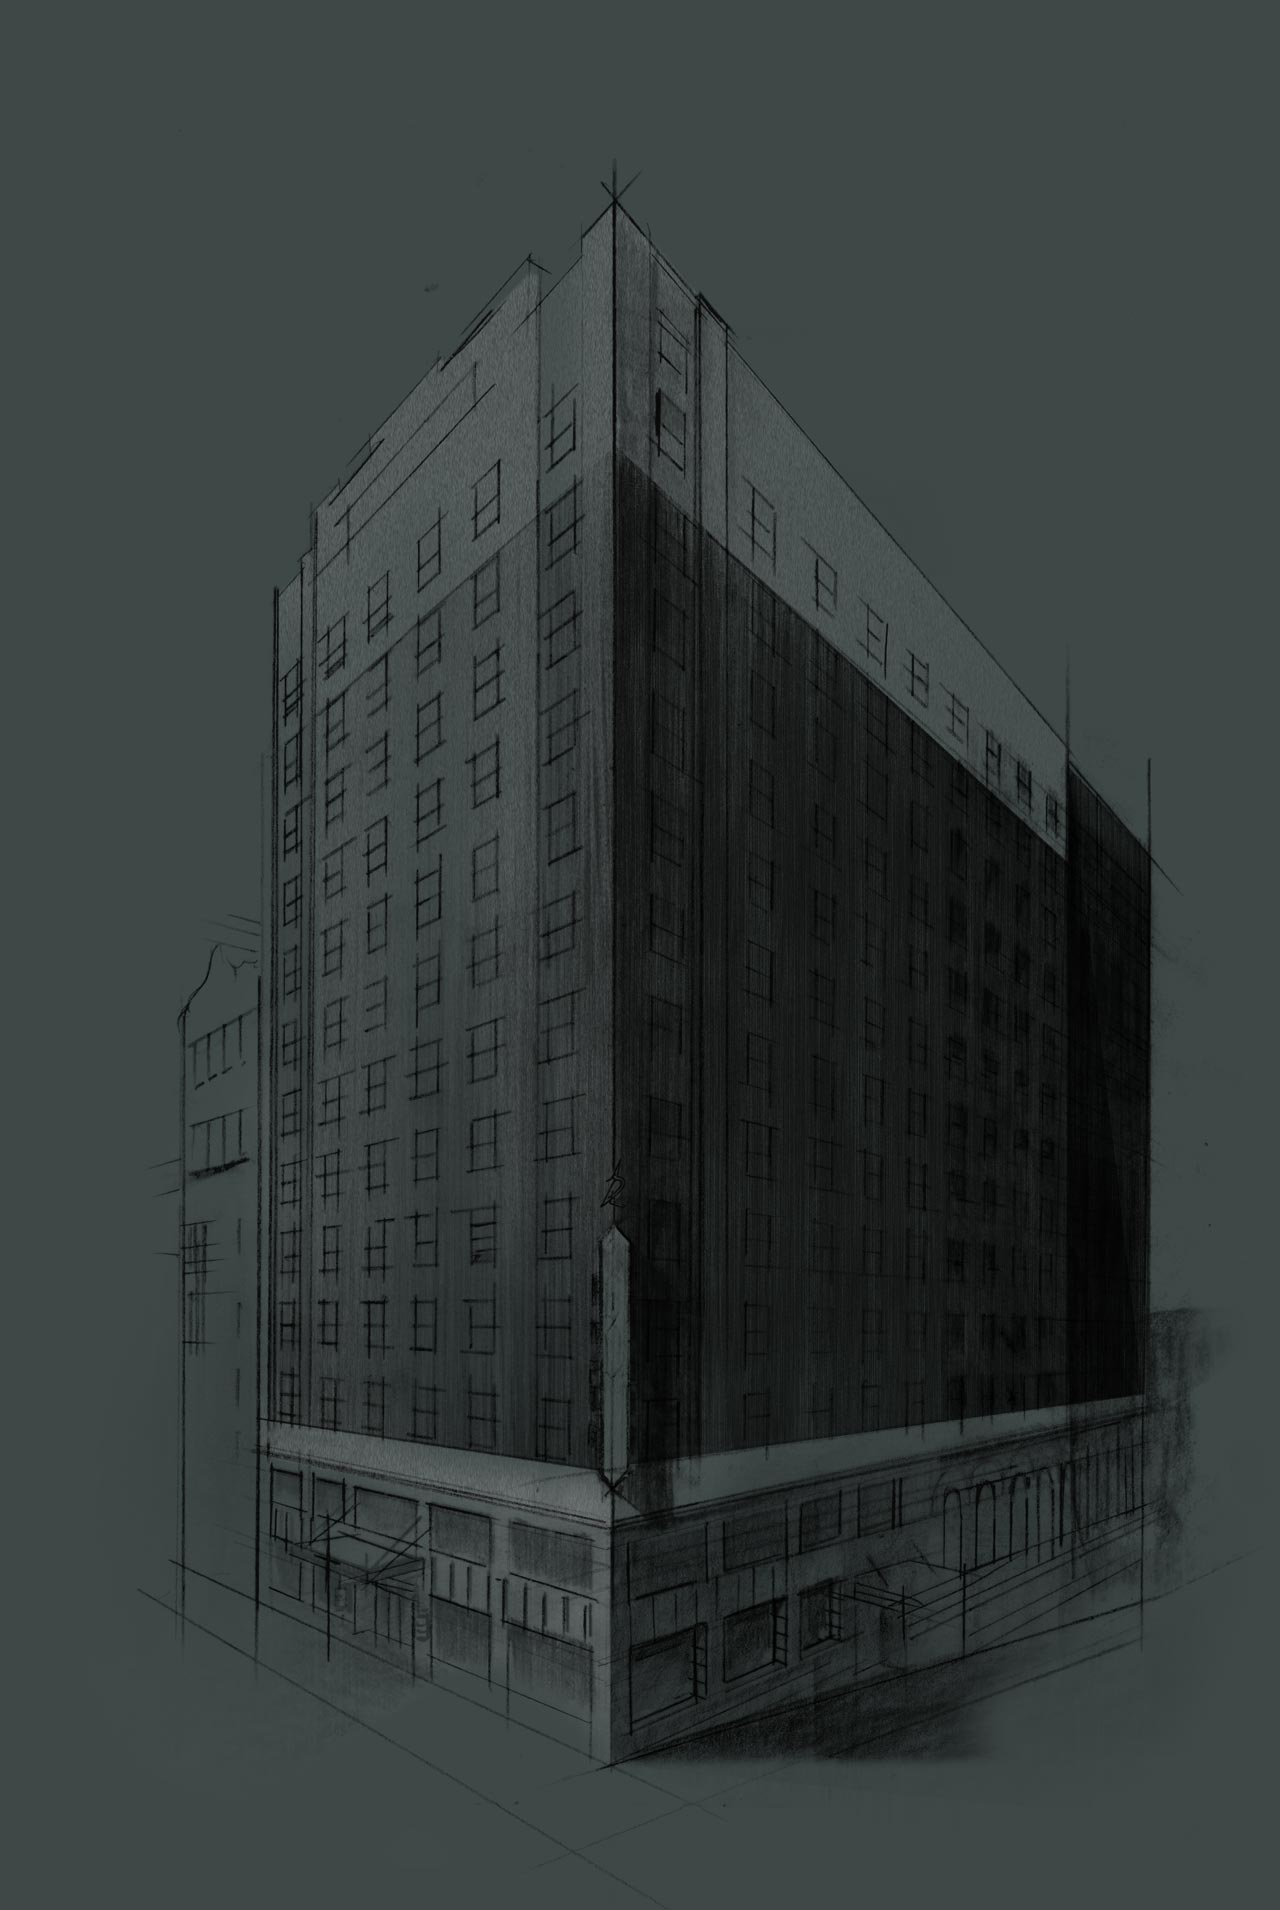
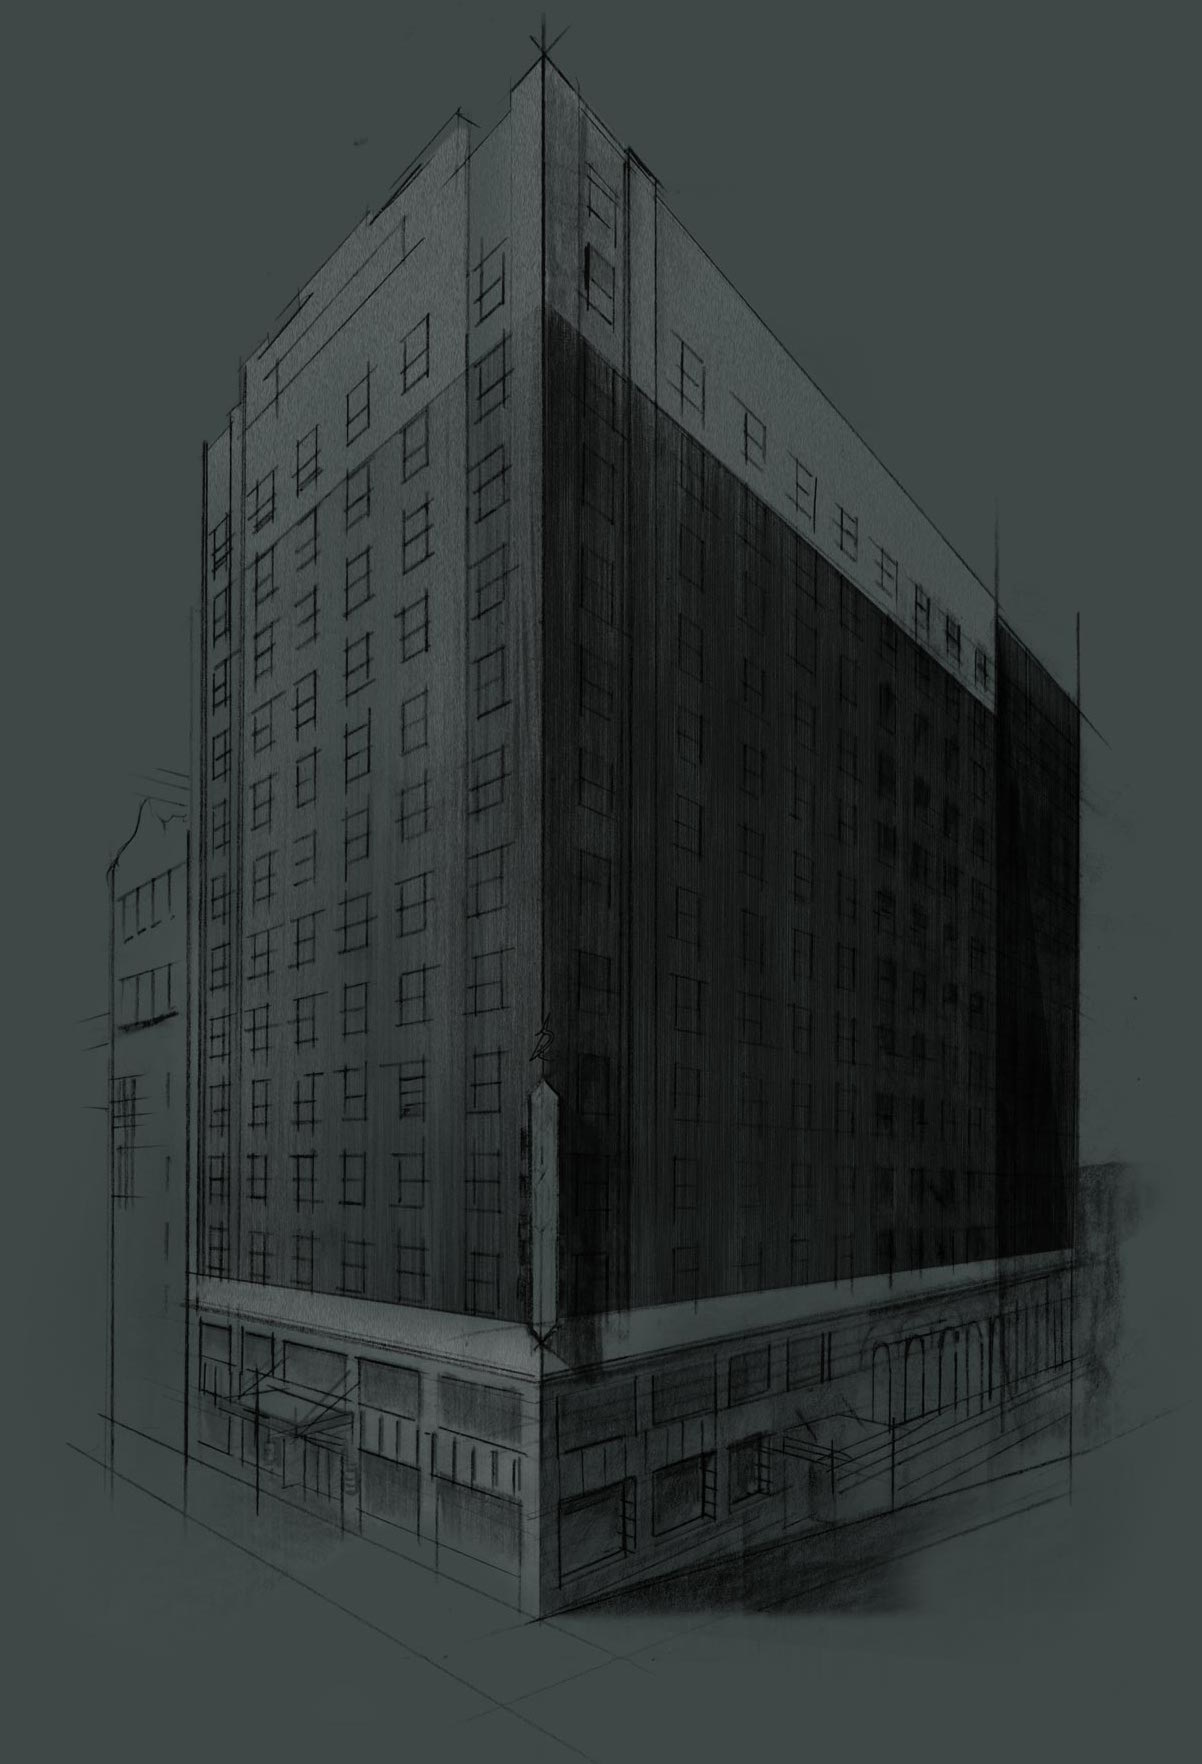
Styled all the way down to A Storied Past section.

diff --git a/index.html b/index.html
@@ -67,7 +67,7 @@
 
   	<!-- MORE THIS WAY ROW -->
   	<div class="row center-align btm-mrg" id="moreThisWayRow">
-      <h3>THERE'S MORE THIS WAY</h3>
+      <h3 class="top-mrg">THERE'S MORE THIS WAY</h3>
     </div>
 
   	<!-- BIG LINE ROW -->
@@ -115,10 +115,10 @@
       </div>
     </div>
 
-    <!-- ARROW ROW -->
-    <div class="row center-align" id="arrowRow">
+    <!-- ARROW ROW 2-->
+    <div class="row center-align" id="arrowRow2">
       <div class="col-md-12">
-        <div class="row">
+        <div class="row first-line">
           <img src="images/noelle-hotel-nashville-tn_ribbon.png" class="centerLine">
         </div>
         <div class="row">
@@ -127,44 +127,65 @@
       </div>
     </div>
 
-
   	<!-- LETS KEEP THIS GOING ROW -->
-  	<div class="row center-align" id="letsKeepThisGoingRow">
-      <h3>LET'S KEEP THIS GOING</h3>
+  	<div class="row center-align btm-mrg" id="letsKeepThisGoingRow">
+      <h3 class="top-mrg">LET'S KEEP THIS GOING</h3>
+    </div>
+
+    <!-- BIG LINE ROW 2 -->
+    <div class="row center-align" id="bigLineRow2">
+      <div class="col-md-12">
+        <img src="images/noelle-hotel-nashville-tn_ribbon2.png" class="centerLine">
+      </div>
     </div>
 
   	<!-- A BRIEF HISTORY ROW -->
   	<div class="row center-align" id="aBriefHistoryRow">
-      <div class="col-md-5">
-        <h1>A BRIEF HISTORY</h1>
+      <div id="storied-past" class="col-md-4 col-md-offset-1">
+        <h1>A STORIED PAST</h1>
         <p>
-          Built at a time when Downtown Nashville was experiencing
-          a boom of new hotels and department stores on nearly
-          every corner, Noelle boasts a rich history in Nashville’s
-          storied past. Backing up to Nashville’s famed Printers
-          Alley, and just a block from Broadway, Noelle has long-been
-          at the center of the downtown hustle-and-bustle since it
-          was built in 1930.
+          Built in 1930 at a time when downtown Nashville was
+          experiencing a boom of new hotels, and department stores
+          were going up on nearly every corner, Noelle boasts a rich
+          history. With the famed Printer’s Alley at her back and the
+          glow of Broadway just a block away, Noelle has long been at the
+          center of the hustle and bustle that fuels this colorful city.
         </p>
         <p>
-          Now in its second act, Noelle has once again found its home
-          among Nashville’s creative voices, playing host to some of
-          Nashville’s finest makers, and a welcome companion to the
-          spirit that makes this place so unique.
+          Now in its second act, Noelle has risen once again to take on
+          its role in Nashville’s rich narrative. Today, the famed hotel
+          serves as a gathering place for some of the city’s most interesting
+          voices and makers as it continues to contribute to the spirit
+          that makes this place so unique.
         </p>
       </div>
       <div class="col-md-2">
-        <img src="images/noelle-hotel-nashville-tn_ribbon.png" class="centerLine">
-        <img src="images/noelle-hotel-nashville-tn_arrow-head.png" class="centerLine">
+        <div class="row line-row">
+          <img src="images/noelle-hotel-nashville-tn_ribbon.png" class="centerLine">
+        </div>
+        <div class="row line-row">
+          <img src="images/noelle-hotel-nashville-tn_ribbon.png" class="centerLine">
+        </div>
+        <div class="row line-row">
+          <img src="images/noelle-hotel-nashville-tn_ribbon.png" class="centerLine">
+        </div>
+        <div class="row line-row">
+          <img src="images/noelle-hotel-nashville-tn_ribbon.png" class="centerLine">
+        </div>
+        <div class="row last-row">
+          <img src="images/noelle-hotel-nashville-tn_ribbon.png" class="centerLine">
+        </div>
+        <div class="row">
+          <img src="images/noelle-hotel-nashville-tn_arrow-head.png" class="arrow">
+        </div>
+        <!-- SO WELCOME TO NASHVILLE -->
+        <div class="row center-align btm-mrg" id="soWelcomeRow">
+          <h3>WELCOME TO NASHVILLE</h3>
+        </div>
       </div>
       <div class="col-md-5">
         <img src="images/noelle-hotel-nashville-tn_boutique_rendering.jpg" id="building">
       </div>
-    </div>
-
-  	<!-- SO WELCOME TO NASHVILLE -->
-  	<div class="row center-align" id="soWelcomeRow">
-      <h3>...SO WELCOME TO NASHVILLE</h3>
     </div>
 
     <!-- another center line -->

diff --git a/style.css b/style.css
@@ -56,7 +56,11 @@ p {
 }
 
 .btm-mrg {
-	margin-bottom: 8px;
+	margin-bottom: 6px;
+}
+
+.top-mrg {
+	margin-top: 8px;
 }
 
 #firstRow {
@@ -95,22 +99,43 @@ p {
 	text-align: center;
 }
 
+#arrowRow2 {
+	height: 130px;
+	overflow: hidden;
+	text-align: center;
+}
+
+#arrowRow2 .first-line {
+	height: 110px;
+	overflow: hidden;
+}
+
 #arrowRow img,
-#bigLineRow img {
+#arrowRow2 img,
+#bigLineRow img,
+#bigLineRow2 img {
 	display: block;
 	margin: auto;
 }
 
-#arrowRow .arrow {
+#arrowRow .arrow,
+#arrowRow2 .arrow,
+#aBriefHistoryRow .arrow {
 	width: 30px;
+}
+
+#bigLineRow {
+	height: 180px;
+	overflow: hidden;
+}
+
+#bigLineRow2 {
+	height: 100px;
+	overflow: hidden;
 }
 
 #stayAWhileRow #heron {
 	height: 340px;
-}
-
-#stayAWhileRow h3 {
-	/*margin-top: 65px;*/
 }
 
 #stayAWhileRow .top-line {
@@ -120,17 +145,32 @@ p {
 
 #stayAWhileRow .btm-line {
 	height: 90px;
-	margin-top: 19px;
+	margin-top: 16px;
 }
 
 #aBriefHistoryRow h3 p {
 	margin-top: 20px
 }
 
-#building {
-	height: 800px;
-	margin-right: 10px;
+#aBriefHistoryRow .line-row {
+	height: 105px;
+	overflow: hidden;
+}
 
+#aBriefHistoryRow .last-row {
+	height: 112px;
+}
+
+#storied-past {
+	padding-top: 150px;
+}
+
+#storied-past p {
+	max-width: 350px;
+}
+
+#building {
+	height: 600px;
 }
 
 #aTownFullRow #quote {
